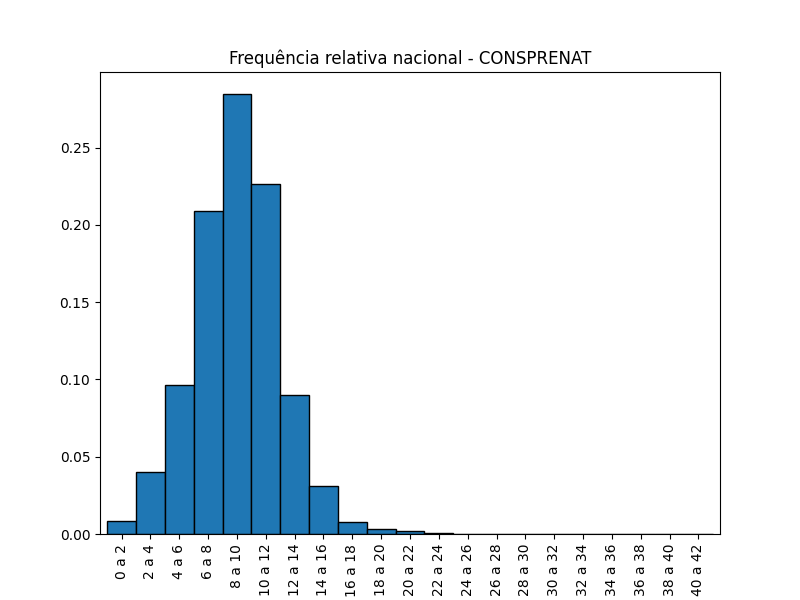
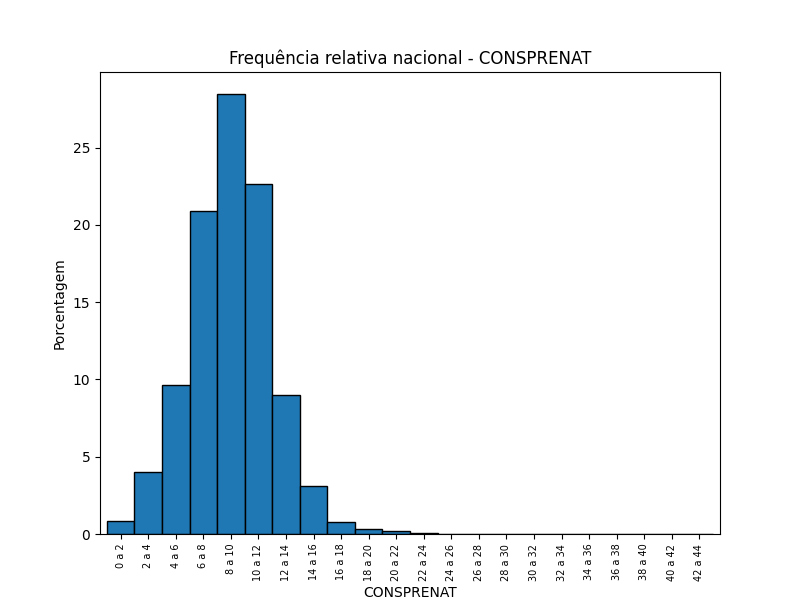
Arquivo md com a análise, creating_images atualizado

diff --git a/analysis_mattos/creating_images.py b/analysis_mattos/creating_images.py
@@ -3,35 +3,71 @@ import numpy as np
 import statics
 import matplotlib.pyplot as plt
 
-estados = {
-"AC": 12,
-"AL": 27,
-"AP": 16,
-"AM": 13,
-"BA": 29,
-"CE": 23,
-"DF": 53,
-"ES": 32,
-"GO": 52,
-"MA": 21,
-"MT": 51,
-"MS": 50,
-"MG": 31,
-"PA": 15,
-"PB": 25,
-"PR": 41,
-"PE": 26,
-"PI": 22,
-"RN": 24,
-"RS": 43,
-"RJ": 33,
-"RO": 11,
-"RR": 14,
-"SC": 42,
-"SP": 35,
-"SE": 28,
-"TO": 17
-}
+estados = [
+"AC",
+"AL",
+"AP",
+"AM",
+"BA",
+"CE",
+"DF",
+"ES",
+"GO",
+"MA",
+"MT",
+"MS",
+"MG",
+"PA",
+"PB",
+"PR",
+"PE",
+"PI",
+"RN",
+"RS",
+"RJ",
+"RO",
+"RR",
+"SC",
+"SP",
+"SE",
+"TO"
+]
+
+def graph_desv(campo: str):
+    """Cria um gráfico de barras mostrando todos
+    os desvios padrões estaduais referente ao
+    ``campo`` com uma linha vermelha indicando
+    o desvio padrão nacional.
+
+    Parameters
+    ----------
+    campo : str
+        Indica o tipo de dado que se refere os
+        desvios estuais (e.g. 'IDADEMAE').
+    
+    Returns
+    -------
+    None
+    """
+    # Obtenção do desvio padrão nacional
+    df2 = pd.read_csv('Data_UF/Data_BRASIL.csv', sep=';', engine='python')
+    desv_nacional = df2.loc[2, campo]
+
+    y_axis = []
+    # Iteração sobre os Estados para obtenção dos desvios estaduais
+    for estado in estados:
+        df1 = pd.read_csv(f'Data_UF/Data_{estado}.csv', sep=';', engine='python')
+        df1.set_index(df1['Unnamed: 0'], inplace=True)
+        df1.drop(columns=['Unnamed: 0'], inplace=True)
+        y = df1.loc['std',campo]
+        y_axis.append(y)
+
+    # Plotagem do gráfico
+    data = pd.DataFrame({'col1': estados, 'col2': y_axis})
+    data.plot(x='col1', y='col2', kind='bar', label='',width=1, edgecolor='black').get_legend().remove()
+    plt.title(f'Desvio padrão - {campo}').set_size(8)
+    plt.axhline(y=desv_nacional, linestyle='--', label='média dos std',linewidth = '2.4', color='red')
+    plt.savefig(f'images/Desv_{campo}_BR.png')
 
 
 def graph_BR(campo: str, xlabel_rotate: int):
@@ -109,6 +145,9 @@ def graph_UF(campo: str, xlabel_rotate: int, y_cofing: list[float]):
     plt.savefig(f'images/fri_{campo}_UF.png')
     
 if __name__ == "__main__":
+    graph_desv('IDADEMAE')
+    graph_desv('CONSPRENAT')
+    graph_desv('ESCMAE')
     graph_BR('IDADEMAE', 90)
     graph_BR('CONSPRENAT', 90)
     graph_BR('ESCMAE', 0)

diff --git a/analysis_mattos/statics.py b/analysis_mattos/statics.py
@@ -126,7 +126,7 @@ def fr_relativa_aux(df: pd.DataFrame, column: str, n: int, i: int, j: int) -> pd
     intervals = []
     dados = []
     # Eliminação de valores ausentes
-    df.dropna(inplace=True)
+    df = df.dropna()
     # Total de observações
     total = len(df[column])
     # Iteração sobre o intervalo

diff --git a/analysis_mattos/analise_mattos.md b/analysis_mattos/analise_mattos.md
@@ -1,0 +1,78 @@
+# Análise de dados
+
+## Idade das mães
+A tabela a seguir mostra algumas estatísticas nacionais com respeito a idade das mães em 2021.
+
+|                | Idade das mães   |
+|:---------------|-----------------:|
+|  Média         |    27.238        |
+| Desvio padrão  |     6.713        |
+|  menor idade   |        8         |
+|  25% percentil |        22        |
+| mediana        |        27        |
+|  75% percentil |        32        |
+| maior idade    |        55        |
+
+Os percentils indicam que 25% das mães têm idade igual ou abaixo de 2 e que 75% das mães têm idade igual ou inferior a 32 anos.
+A plotagem do histograma das idades nos mostra uma considerável dispersão em torno da média devido ao desvião padrão de 6.713.
+
+![](images/fri_IDADEMAE_BR)
+
+Podemos perceber que o desvio padrão dos Estados difere muito pouco do desvio nacional, indicando igual distribuição em torno da média.
+
+![](images/Desv_IDADEMAE_BR)
+
+A análise revela, portanto, uma ampla variação nas idades das mães no Brasil, com uma concentração significativa em torno da média. Além disso, evidencia que a distribuição de idades é relativamente uniforme em todos os estados do país. 
+
+## Escolaridade das mães
+
+A visualização do histograma da frequência relativa da escolaridade das mães mostra uma forte concentração em torno da média. De fato, o desvio padrão de 0,6867 indica tal concentração.
+
+![](images/fri_ESCMAE_BR)
+
+
+| Brasil        |            |
+|:--------------|-----------:|
+| Desvio padrão | 0.687      |
+| Média         | 8 a 11 anos|
+
+Podemos perceber que a distribuição relativa da escolaridade por Estado apresenta a maioria dos histogramas bem próximos ao da distribuição nacional.
+
+![](images/fri_ESCMAE_UF)
+
+Porém, o gráfico que mostra que o desvião padrão estadual revela que alguns Estados fogem bastante do desvio nacional.
+
+![](images/Desv_ESCMAE_BR)
+
+Além disso, percebemos que os Estados mais distantes do desvio padrão nacional são AC, BA, PA, RR.
+A tabela a seguir mostra seus desvios padrões.
+
+|             |   AC  |   BA   |  PR  |  RR   |
+|:------------|------:|-------:|-----:|------:|
+|Desvio padrão| 0.978 | 0.893  |0.978 | 0.978 |
+
+No que diz respeito à escolaridade das mães, a análise aponta para uma concentração significativa em torno da média nacional, representada pelo baixo desvio padrão de 0,687. Embora a maioria dos estados mostre distribuições de escolaridade semelhantes à média nacional, alguns estados, como AC, BA, PA e RR, exibem uma maior dispersão, indicando variações relevantes na escolaridade das mães.
+
+## Consultas pré-natal
+
+A tabela a seguir mostra algumas estatísticas nacionais relacionadas às consultas pré-natal efetuadas em 2021.
+
+|                          | Consultas pré-natal   |
+|:-------------------------|----------------------:|
+|  Média                   |         8.480         |
+| Desvio padrão            |          2.961        |
+|  menor nº de consultas   |           0           |
+|  25% percentil           |            7          |
+| mediana                  |            8          |
+|  75% percentil           |           10          |
+| maior nº de consultas    |           41          |
+
+Embora tenhamos números de consultas que variam de 0 a 41, o baixo desvio padrão mostra uma alta concentração em torno da média. Isso é evidenciado pelo histograma nacional, que está consideravelmente afastado do valor 41. Essa concentração em torno da média é sustentada pelo terceiro percentil, que indica que 75% das mães realizam 10 ou menos consultas pré-natal.
+
+![](images/fri_CONSPRENAT_BR)
+
+O gráfico do desvio padrão dos Estados sugere uma homogeneidade na distribuição entre os Estados.
+
+![](images/Desv_CONSPRENAT_BR)
+
+Concluímos então que os dados apontam para uma concentração significativa de consultas pré-natal em torno da média nacional, com uma baixa dispersão. Essa tendência é observada tanto a nível nacional quanto nos Estados, sugerindo que a atenção pré-natal é relativamente uniforme em todo o país.
